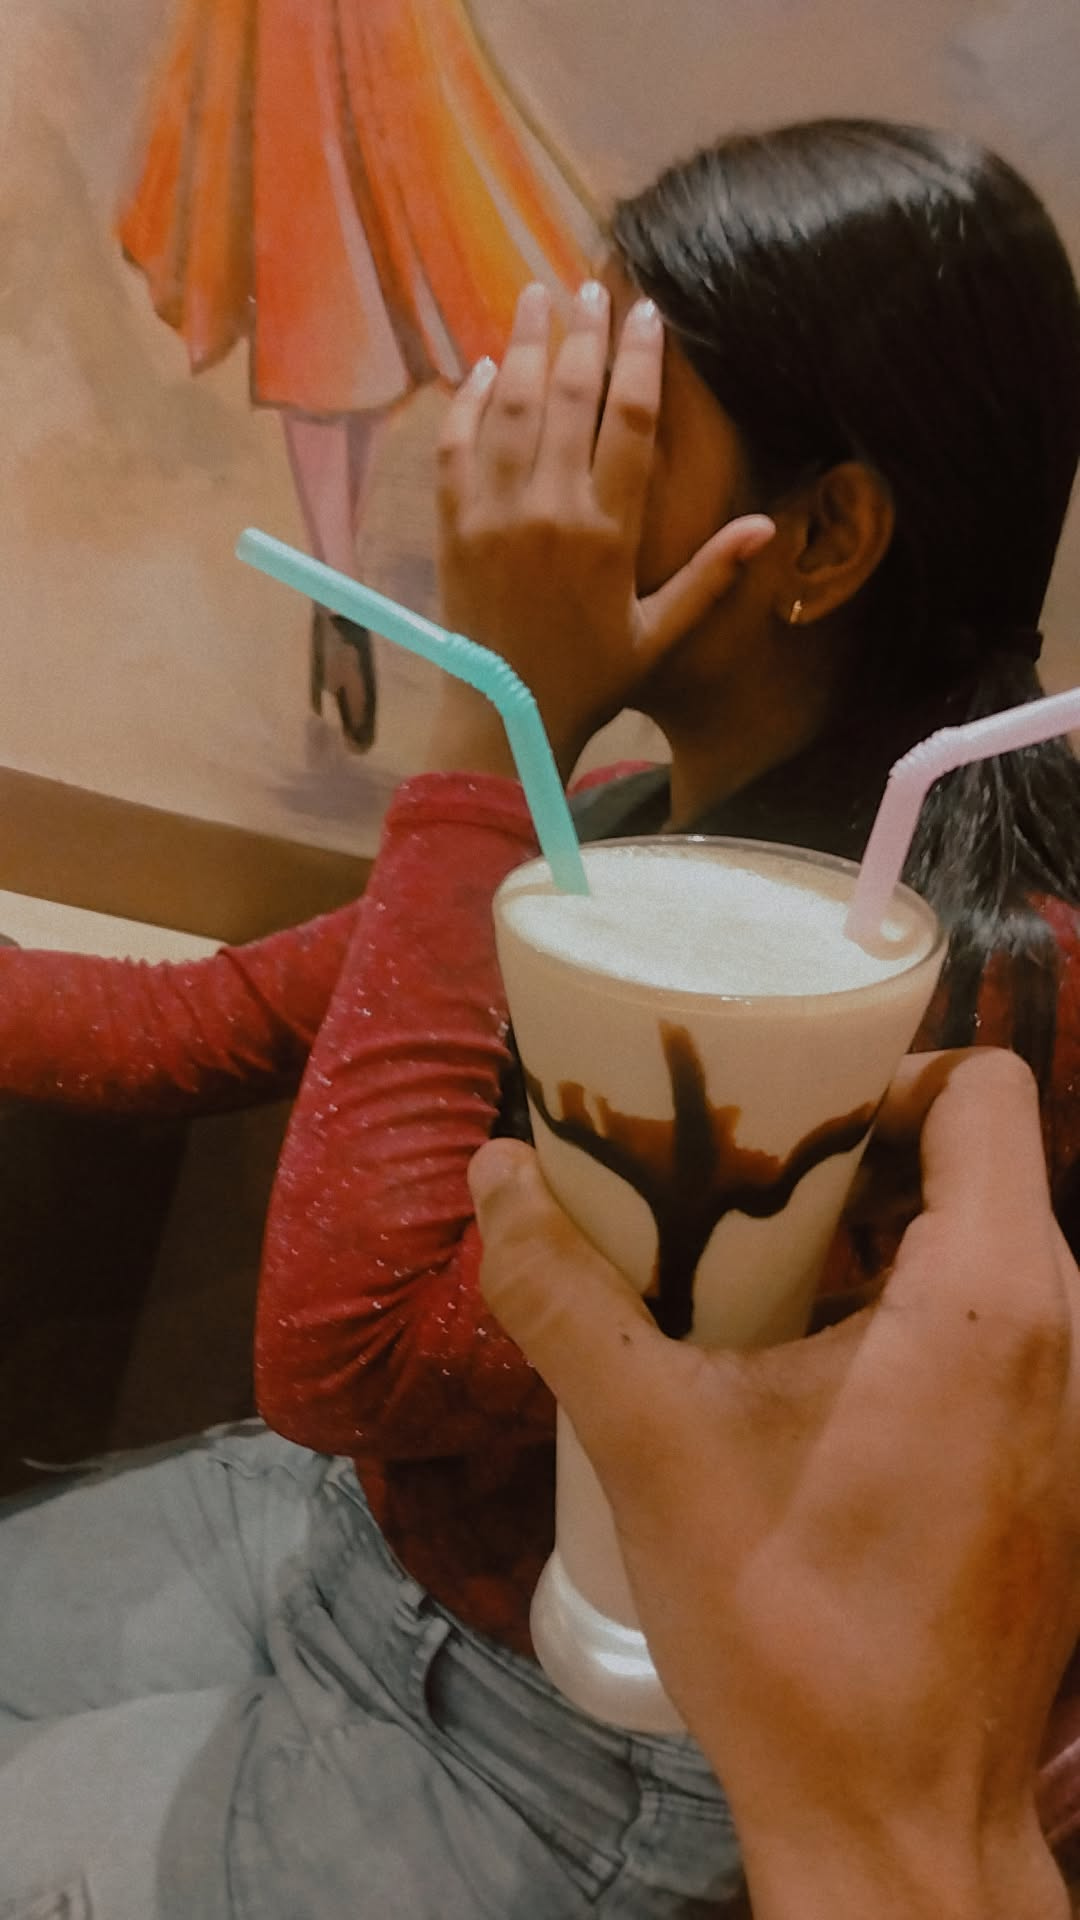
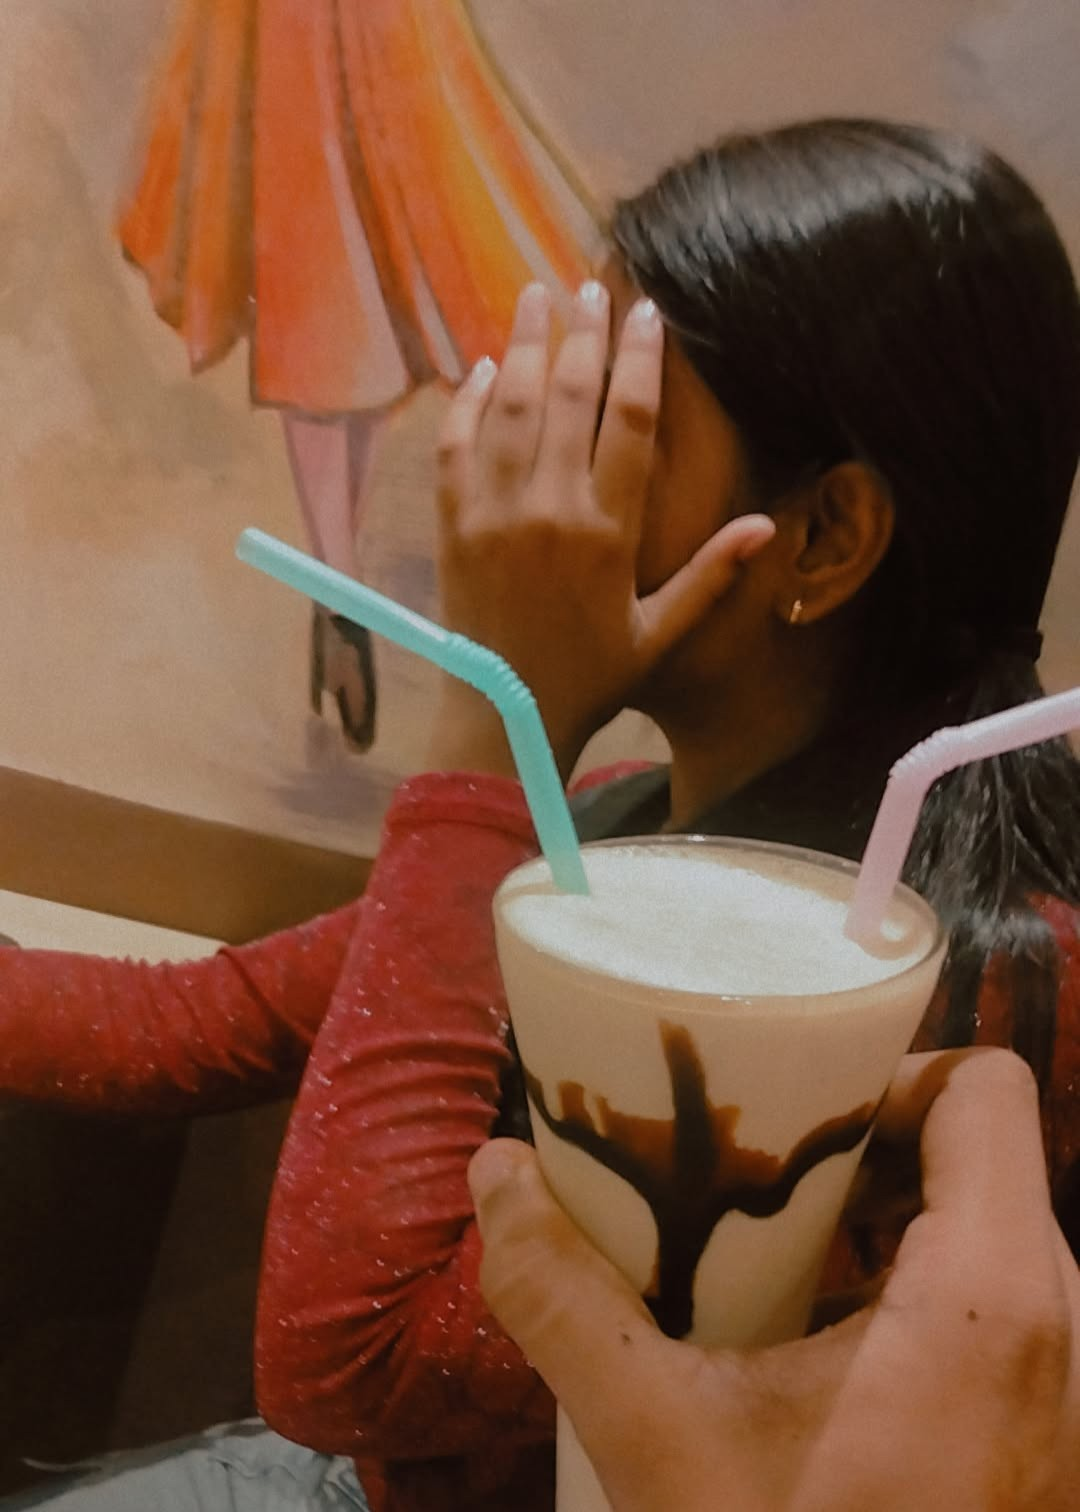
UI enhancements: dark theme, micro-interactions, anniversary letter, music player scrubbing

diff --git a/css/main.css b/css/main.css
@@ -298,11 +298,25 @@ a { color: inherit; text-decoration: none; }
    SCREEN: DASHBOARD
 ═══════════════════════════════════════════════════════════ */
 #screen-dashboard {
-  background: var(--grad-bg);
+  background: linear-gradient(180deg, #1A0A0F 0%, #0F0A1A 100%);
+  color: #F5ECE0;
   display: flex; flex-direction: column;
   align-items: center; min-height: 100vh;
   position: relative;
 }
+#screen-dashboard .names-main { color: #F5ECE0; }
+#screen-dashboard .names-caption, #screen-dashboard .names-sub { color: rgba(245,236,224,.7); }
+#screen-dashboard .stats-title { color: #F5ECE0; }
+#screen-dashboard .stat-item { background: rgba(255,255,255,.05); border-color: rgba(255,255,255,.1); }
+#screen-dashboard .stat-item:hover { background: rgba(255,255,255,.1); }
+#screen-dashboard .stat-label { color: rgba(245,236,224,.5); }
+#screen-dashboard .stat-number { -webkit-text-fill-color: #F5ECE0; }
+#screen-dashboard .our-stats-card, #screen-dashboard .framed-sky-map { background: rgba(255,255,255,.03); border: 1px solid rgba(255,255,255,.1); }
+#screen-dashboard .framed-sky-map .sky-map-caption { color: #F9A8C9; }
+#screen-dashboard .meet-soon-box { background: rgba(255,255,255,.05); border-color: rgba(255,255,255,.1); }
+#screen-dashboard .meet-soon-text { background: var(--grad-pink); -webkit-background-clip: text; -webkit-text-fill-color: transparent; background-clip: text; }
+#screen-dashboard .miss-counter { color: rgba(245,236,224,.5); }
+#screen-dashboard .cassette-trigger { opacity: .5; }
 
 /* Hero */
 .hero-bg { position: absolute; inset: 0; overflow: hidden; z-index: 0; }
@@ -318,8 +332,8 @@ a { color: inherit; text-decoration: none; }
 .hero-overlay {
   position: absolute; inset: 0; z-index: 3;
   background: linear-gradient(to bottom,
-    rgba(253,242,246,.15) 0%, rgba(232,69,122,.04) 20%,
-    rgba(253,242,246,.75) 55%, var(--bg) 100%);
+    transparent 0%, rgba(26,10,15,0.2) 50%,
+    rgba(26,10,15,0.8) 85%, #1A0A0F 100%);
 }
 
 #heart-canvas { position: fixed; inset: 0; pointer-events: none; z-index: 150; }
@@ -394,6 +408,30 @@ a { color: inherit; text-decoration: none; }
   100% { transform: translateY(-16px) rotate(22deg) scale(1.05); }
 }
 
+.dash-content {
+  display: flex;
+  flex-direction: column;
+  align-items: center;
+  gap: 1.5rem;
+  position: relative;
+  z-index: 10;
+  margin-top: 2rem;
+}
+.dash-content > * {
+  animation: slide-up-fade 0.8s var(--ease-bounce) both;
+}
+.dash-content > *:nth-child(1) { animation-delay: 0.1s; }
+.dash-content > *:nth-child(2) { animation-delay: 0.2s; }
+.dash-content > *:nth-child(3) { animation-delay: 0.3s; }
+.dash-content > *:nth-child(4) { animation-delay: 0.4s; }
+.dash-content > *:nth-child(5) { animation-delay: 0.5s; }
+.dash-content > *:nth-child(6) { animation-delay: 0.6s; }
+
+@keyframes slide-up-fade {
+  from { transform: translateY(30px); opacity: 0; }
+  to { transform: translateY(0); opacity: 1; }
+}
+
 .dash-badge {
   display: inline-flex; align-items: center; gap: .5rem;
   background: var(--grad-glass);
@@ -405,6 +443,11 @@ a { color: inherit; text-decoration: none; }
   letter-spacing: .1em; text-transform: uppercase;
   color: var(--yellow-deep);
   box-shadow: 0 2px 12px rgba(249,199,79,.12);
+  transition: all 0.3s var(--ease-bounce);
+}
+.dash-badge:hover {
+  transform: translateY(-3px) scale(1.05);
+  box-shadow: 0 6px 20px rgba(249,199,79,.3);
 }
 .badge-star { animation: spin 3s linear infinite; display: inline-block; }
 @keyframes spin { from { transform: rotate(0deg); } to { transform: rotate(360deg); } }
@@ -460,7 +503,11 @@ a { color: inherit; text-decoration: none; }
   box-shadow: 0 4px 12px rgba(232, 69, 122, 0.06);
   margin: 0 auto 0.75rem;
   width: fit-content;
-  align-self: center;
+  transition: all 0.3s var(--ease-bounce);
+}
+.names-sub:hover {
+  transform: scale(1.05);
+  background: rgba(232, 69, 122, 0.15);
 }
 .names-main {
   font-family: 'Pacifico', cursive;
@@ -473,11 +520,25 @@ a { color: inherit; text-decoration: none; }
   margin-bottom: -0.12em;
   overflow: visible;
   filter: drop-shadow(0 2px 8px rgba(232,69,122,.2));
+  transition: transform 0.3s var(--ease-bounce);
+}
+.names-main:hover {
+  transform: scale(1.02);
+}
+.name-his, .name-her, .names-amp {
+  display: inline-block;
+  transition: transform 0.3s var(--ease-bounce);
+}
+.name-his:hover, .name-her:hover {
+  transform: translateY(-4px) rotate(-2deg);
 }
 .names-amp {
   background: var(--grad-yellow);
   -webkit-background-clip: text; -webkit-text-fill-color: transparent;
   background-clip: text; margin: 0 .15em;
+}
+.names-amp:hover {
+  transform: scale(1.2) rotate(10deg);
 }
 .names-caption {
   font-family: 'Inter', sans-serif;
@@ -507,6 +568,11 @@ a { color: inherit; text-decoration: none; }
   color: var(--pink-deep);
   line-height: 1.4;
   text-align: center;
+  transition: transform 0.3s var(--ease-bounce);
+  display: inline-block;
+}
+.meet-soon-text:hover {
+  transform: scale(1.05) rotate(-2deg);
 }
 
 /* ─── OUR STATS CARD ────────────────────────────────────── */
@@ -924,6 +990,9 @@ a { color: inherit; text-decoration: none; }
   object-fit: cover; display: block; border-radius: 2px;
   background: #1a1a2e;
 }
+.polaroid-5x7 {
+  aspect-ratio: 5/7 !important;
+}
 .polaroid-placeholder {
   width: 100%; aspect-ratio: 4/3;
   display: flex; align-items: center; justify-content: center;
@@ -1134,7 +1203,20 @@ a { color: inherit; text-decoration: none; }
 /* ═══════════════════════════════════════════════════════════
    SCREEN: OPEN WHEN LETTERS
 ═══════════════════════════════════════════════════════════ */
-#screen-letters { background: var(--grad-bg); min-height: 100vh; padding-bottom: 5rem; }
+#screen-letters { background: linear-gradient(180deg, #1A0A0F 0%, #0F0A1A 100%); min-height: 100vh; padding-bottom: 5rem; color: #F5ECE0; }
+#screen-letters .section-title { color: #F5ECE0; }
+#screen-letters .section-sub { color: rgba(245,236,224,.6); }
+#screen-letters .envelope-card { background: rgba(255,255,255,.05); border: 1px solid rgba(255,255,255,.1); }
+#screen-letters .envelope-card.special { background: linear-gradient(135deg, rgba(212,168,67,.08), rgba(255,107,157,.05)); }
+#screen-letters .env-label { color: rgba(245,236,224,.5); }
+#screen-letters .env-sublabel { color: #F5ECE0; }
+#screen-letters .env-cta { color: #F9A8C9; }
+#screen-letters .envelope-flap::before { background: linear-gradient(135deg, rgba(255,255,255,.1), var(--card-accent, var(--pink))); }
+#screen-letters .letter-card { background: #1A0F0A; color: #F5ECE0; border: 1px solid rgba(255,255,255,.1); }
+#screen-letters .letter-title { color: #F5ECE0; }
+#screen-letters .letter-body { color: rgba(245,236,224,.8); }
+#screen-letters .modal-close { background: rgba(255,255,255,.1); color: #F5ECE0; }
+#screen-letters .modal-close:hover { background: var(--pink); }
 
 .envelope-grid {
   display: grid; grid-template-columns: repeat(auto-fill, minmax(240px, 1fr));
@@ -1249,12 +1331,31 @@ a { color: inherit; text-decoration: none; }
 .gp-details {
   display: flex;
   flex-direction: column;
+  overflow: hidden;
+  position: relative;
+  max-width: 130px;
+}
+@media (min-width: 600px) {
+  .gp-details { max-width: 250px; }
+}
+.gp-title-wrap {
+  width: 100%;
+  overflow: hidden;
+  white-space: nowrap;
+  mask-image: linear-gradient(to right, black 85%, transparent 100%);
+  -webkit-mask-image: linear-gradient(to right, black 85%, transparent 100%);
 }
 .gp-title {
   font-family: 'Playfair Display', serif;
   font-size: 0.95rem;
   font-weight: 700;
   color: var(--pink-deep);
+  display: inline-block;
+  animation: marquee-premium 8s linear infinite alternate;
+}
+@keyframes marquee-premium {
+  0%, 10% { transform: translateX(0); }
+  90%, 100% { transform: translateX(-40%); }
 }
 .gp-desc {
   font-size: 0.72rem;
@@ -1373,6 +1474,24 @@ a { color: inherit; text-decoration: none; }
   height: 100%;
   width: 0%;
   background: var(--grad-pink);
+  position: relative;
+}
+.gp-progress-dot {
+  position: absolute;
+  top: 50%;
+  right: -6px;
+  transform: translateY(-50%) scale(0);
+  width: 12px;
+  height: 12px;
+  background: #fff;
+  border: 2px solid var(--pink);
+  border-radius: 50%;
+  box-shadow: 0 0 8px rgba(232, 69, 122, 0.5);
+  transition: transform 0.2s var(--ease-bounce);
+  pointer-events: none;
+}
+.gp-progress-track:hover .gp-progress-dot {
+  transform: translateY(-50%) scale(1);
 }
 #gp-time {
   font-size: 0.75rem;

diff --git a/content/data.js b/content/data.js
@@ -4,14 +4,14 @@
 
 /* ─── CONFIG ──────────────────────────────────────────────── */
 const CONFIG = {
-  yourName:        "Dewansh",
-  herName:         "Shriyanshi",
+  yourName: "Dewansh",
+  herName: "Shriyanshi",
   anniversaryDate: "2024-06-28",
   nextMeetingDate: "2026-06-03",
-  privacyAnswer:   "1123",
+  privacyAnswer: "1123",
   cassetteSongTitle: "Ehsaan Tera Hoga Mujh Par",
   ambientTrackTitle: "Pal Pal Dil Ke Paas",
-  ambientArtist:    "for you, always",
+  ambientArtist: "for you, always",
   secretMessages: [
     "Okay okay, I miss you too. Get over here already! 🤍",
     "You literally cannot stop, can you? 😭 1123.",
@@ -82,6 +82,7 @@ const TIMELINE_DATA = [
     caption: "There is a photo of you I keep coming back to. Just you, being yourself, not posing. You have no idea how much I love it. I'm not going to tell you which one — you'd get smug about it.",
     photo: "./assets/photos/timeline/06-her-fav-photo.jpg",
     polaroidCaption: "my favourite 🤍",
+    is5x7: true,
   },
   {
     date: "2025",
@@ -133,6 +134,7 @@ const TIMELINE_DATA = [
     caption: "Low light, good coffee, and you across the table looking effortlessly like a photograph. I took note of everything about that evening. I still have those notes.",
     photo: "./assets/photos/timeline/13-coffee-aesthetic.jpg",
     polaroidCaption: "golden hour ☕",
+    is5x7: true,
   },
   {
     chapterLabel: "Chapter 5 · The Good Months",
@@ -148,6 +150,7 @@ const TIMELINE_DATA = [
     caption: "Navratri. You in that outfit. The lights, the music, the spinning. There are good photos and one gloriously silly one. I am keeping all of them. Especially the silly one.",
     photo: "./assets/photos/timeline/15-garba.jpg",
     polaroidCaption: "garba 2025 ✨",
+    is5x7: true,
   },
   {
     date: "5 October 2025",
@@ -171,6 +174,7 @@ const TIMELINE_DATA = [
     caption: "11th November. Your birthday. The day the world got you, and I think the world did very well. I want to be there for every one of these.",
     photo: "./assets/photos/timeline/18-her-birthday.jpg",
     polaroidCaption: "happy birthday 🎂 11.11",
+    is5x7: true,
   },
   {
     chapterLabel: "Chapter 7 · The Final Chapter (So Far)",
@@ -242,12 +246,12 @@ const TIMELINE_DATA = [
 
 /* ─── EVENING WALK PHOTOS ───────────────────────────────── */
 const EVENING_PHOTOS = [
-  { src: "./assets/photos/polaroids/01-her-fav.jpg",           caption: "the photo that started everything 💛" },
-  { src: "./assets/photos/polaroids/02-rain-softy.jpg",        caption: "softy in the rain 🌧" },
-  { src: "./assets/photos/polaroids/03-mandir.jpg",            caption: "together at the mandir 🙏" },
-  { src: "./assets/photos/polaroids/04-coffee-aesthetic.jpg",  caption: "golden hour and good coffee ☕" },
-  { src: "./assets/photos/polaroids/05-garba-silly.jpg",       caption: "garba chaos (the silly one) 😂" },
-  { src: "./assets/photos/polaroids/08-garba-good.jpg",        caption: "garba nights ✨" },
+  { src: "./assets/photos/polaroids/01-her-fav.jpg", caption: "the photo that started everything 💛" },
+  { src: "./assets/photos/polaroids/02-rain-softy.jpg", caption: "softy in the rain 🌧" },
+  { src: "./assets/photos/polaroids/03-mandir.jpg", caption: "together at the mandir 🙏" },
+  { src: "./assets/photos/polaroids/04-coffee-aesthetic.jpg", caption: "golden hour and good coffee ☕" },
+  { src: "./assets/photos/polaroids/05-garba-silly.jpg", caption: "garba chaos (the silly one) 😂" },
+  { src: "./assets/photos/polaroids/08-garba-good.jpg", caption: "garba nights ✨" },
 ];
 
 /* ─── OPEN WHEN LETTERS ─────────────────────────────────── */
@@ -259,8 +263,24 @@ const OPEN_WHEN_LETTERS = [
     letter: {
       eyebrow: "Est. 28 June 2024",
       title: "Happy 2nd Anniversary! 🤗",
-      body: `<p>Coming soon... 💖</p>`,
-      signature: "With love, Dewansh",
+      body: `<p>Hi meri Chwwetuuu Bubu, 💕</p>
+<p>Happy Happy Happyyyyyyyy 2nd Anniversary bacchuuuu! Do saal ho gaye tumhe mere nakhre jhelte hue 😋, sacchi yaar, trko toh award milna chahiye bhyi. 😂</p>
+<p>Iss saal jyada saath me to ni reh paaye 🥹 lekin jitta bhi rahe na usme ka agar sabse favorite memory batau, toh wo definitely CBSE board exams hoga bhyiii. Mujhe pata hai papers pe focus karna tha, par sach bataun toh mera poora dhyan bas tumhe dekhne mein hi laga rehta tha! mrko hi Pata hai kaise paper likh ke aaya hoon. 🤭, aur baaki humlogo ka chaplus chougdiii on fire bhyii uska to har second bahut jyada memoriable hai no jokes! best besttt besstttt ekdumm!! lekin saale tum dono rafu chakkr hogye 😭</p>
+<p>Aur Sun Dumbo!! , mrko pata hai tum aaj kal jyada marks aur us rechecking wale bakaiti ko lekar bahut sad ho gyi ho, aur upar se mummy ne bhi daant diya. Par apne Puppu ki baat dhyaan se suno 🙈: ek paper ka tukda ye decide nahi karta ki tum kitni smart aur amazing ho. Tum unn marks se kahin zyada badhkar ho, and I am so, so insanely proud of you. Hamesha. Aur mehenat waste ni jaata kabhi bhyi! don't worry dekhna abhi kaam ayega pakka likh ke lele! </p>
+<p>DEKHOO!!! waise to I love every single bit of you 🙈. Par sabse zyada pyaar mujhe is baat pe aata hai ki tu jooo ekdummm pamperr kr detiii haiiiiiiiii naaaaaaa nfkjbshafkjbadsf. Jab main pareshan hota hoon hu toh tu jis tarah console karti haiiiiiiiiii... tere saath hona mujhe ek dam proper, warm comfort zone jaisa lagta hai. Safe place , Bubu. 🤭🏡</p>
+<p>Humara future hamesha ke liye hai jo bhi hoga sath me hi hoga 🌚, aur main promise karta hoon ki main bahut, bahut, bahuttt jald tumse milne aa raha hoon. Bas thoda sa wait aur peeezzz 🥺! ✨</p>`,
+      signature: "Aur Kon, Dewanch ❤",
+    }
+  },
+  {
+    label: "More envelopes...", sublabel: "Coming Soon! 💌",
+    seal: "⏳", accentColor: "#D4A843",
+    isSpecial: false,
+    letter: {
+      eyebrow: "In the works",
+      title: "Patience, my love...",
+      body: `<p>I'm still writing more letters for you! They'll be ready when you need them. 😉</p>`,
+      signature: "Yours, Dewansh",
     }
   }
 ];

diff --git a/index.html b/index.html
@@ -335,18 +335,6 @@
       <div class="polaroid-grid" id="polaroid-grid"></div>
     </div>
 
-    <!-- Lightbox -->
-    <div id="lightbox" class="modal-overlay" role="dialog" aria-modal="true">
-      <div class="lightbox-inner">
-        <div class="lightbox-polaroid">
-          <img id="lb-img" src="" alt="" style="display:none;" />
-          <video id="lb-video" src="" controls playsinline loop style="display:none; max-width:100%; max-height:60vh; border-radius:2px;"></video>
-        </div>
-        <p id="lb-caption" class="lb-caption"></p>
-        <button id="lb-close" class="modal-close" aria-label="Close">✕</button>
-      </div>
-    </div>
-
   </section>
 
   <!-- ─────────────────────────────────────────
@@ -355,9 +343,9 @@
   <section id="screen-letters" class="screen" aria-label="Open When Letters">
 
     <div class="section-header">
-      <p class="section-eyebrow">Letters</p>
+      <span class="section-eyebrow">JUST FOR YOU</span>
       <h2 class="section-title">Open When...</h2>
-      <p class="section-sub">Eight envelopes. Open each one when the moment finds you.</p>
+      <p class="section-sub">Just one envelope for now... but more are coming! Open it when the moment finds you.</p>
     </div>
 
     <div class="envelope-grid" id="envelope-grid" role="list"></div>
@@ -388,6 +376,18 @@
     </div>
   </div>
 
+  <!-- Lightbox -->
+  <div id="lightbox" class="modal-overlay" role="dialog" aria-modal="true">
+    <div class="lightbox-inner">
+      <div class="lightbox-polaroid">
+        <img id="lb-img" src="" alt="" style="display:none;" />
+        <video id="lb-video" src="" controls playsinline loop style="display:none; max-width:100%; max-height:60vh; border-radius:2px;"></video>
+      </div>
+      <p id="lb-caption" class="lb-caption"></p>
+      <button id="lb-close" class="modal-close" aria-label="Close">✕</button>
+    </div>
+  </div>
+
 </div><!-- /#app -->
 
 <!-- Global background audio control bar -->
@@ -411,7 +411,9 @@
       <div class="eq-bar"></div>
     </div>
     <div class="gp-details" id="gp-info-click" style="cursor: pointer;" title="View Playlist">
-      <span class="gp-title" id="gp-current-title">Ehsaan Tera Hoga Mujh Par</span>
+      <div class="gp-title-wrap">
+        <span class="gp-title" id="gp-current-title">Ehsaan Tera Hoga Mujh Par</span>
+      </div>
       <span class="gp-desc" id="gp-current-desc">playing automatically 🌸</span>
     </div>
   </div>
@@ -423,7 +425,9 @@
       <button id="gp-toggle-drawer" class="gp-control-btn playlist-toggle" aria-label="Toggle playlist" title="Show playlist">🎶</button>
     </div>
     <div class="gp-progress-track" id="gp-progress-track" role="slider" aria-label="Music progress">
-      <div class="gp-progress-fill" id="gp-progress-fill"></div>
+      <div class="gp-progress-fill" id="gp-progress-fill">
+        <div class="gp-progress-dot" id="gp-progress-dot"></div>
+      </div>
     </div>
     <span id="gp-time">0:00</span>
   </div>

diff --git a/js/app.js b/js/app.js
@@ -826,6 +826,7 @@
       } else if (item.photo) {
         const img = document.createElement('img');
         img.className = 'polaroid-img';
+        if (item.is5x7) img.classList.add('polaroid-5x7');
         img.src = item.photo; img.alt = item.title; img.loading = 'lazy';
         polaroid.appendChild(img);
       } else {
